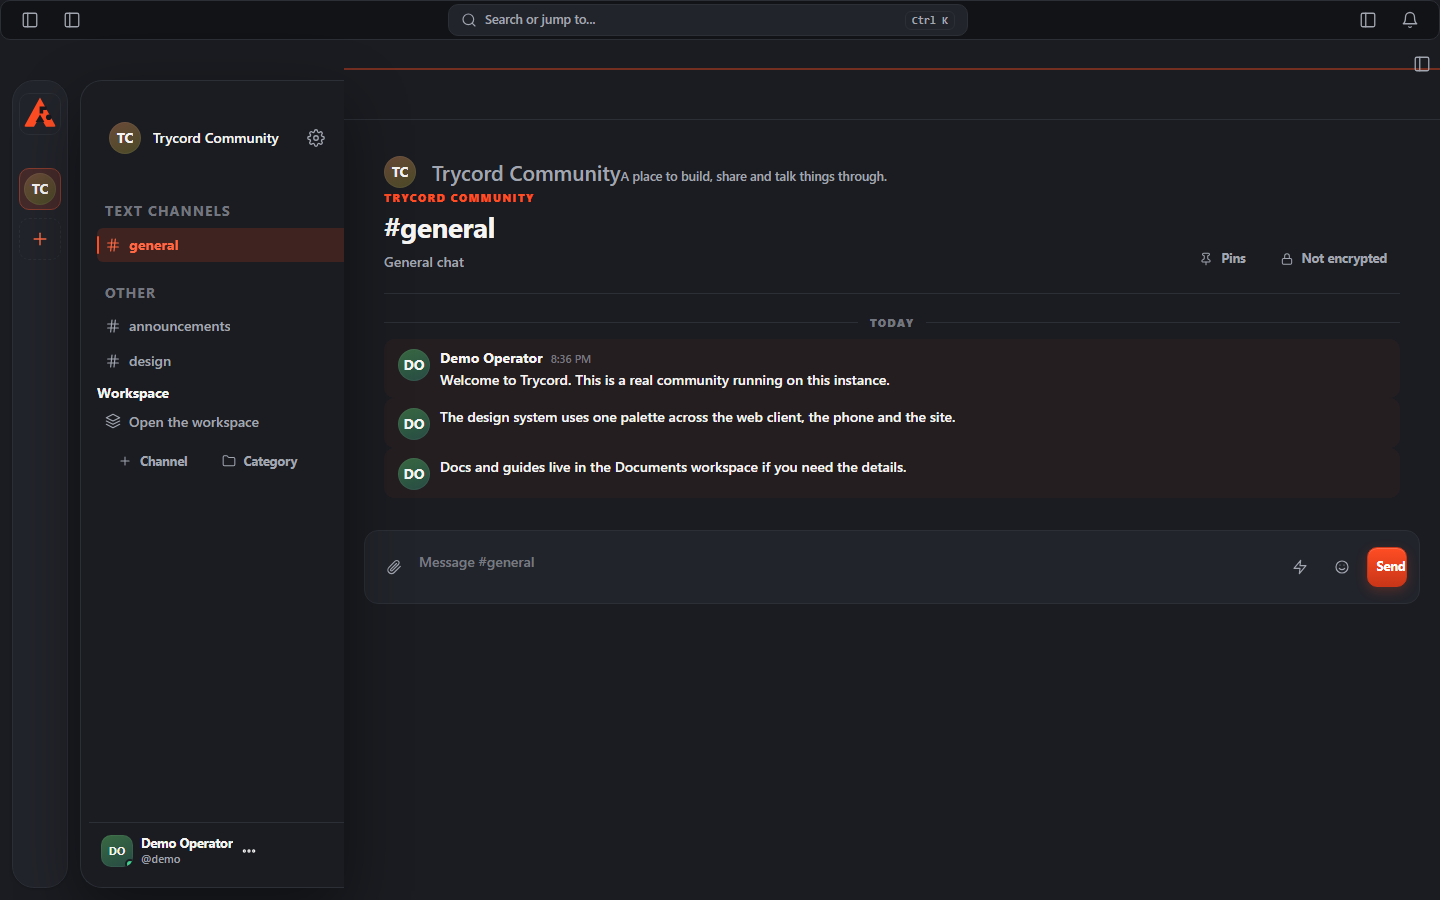
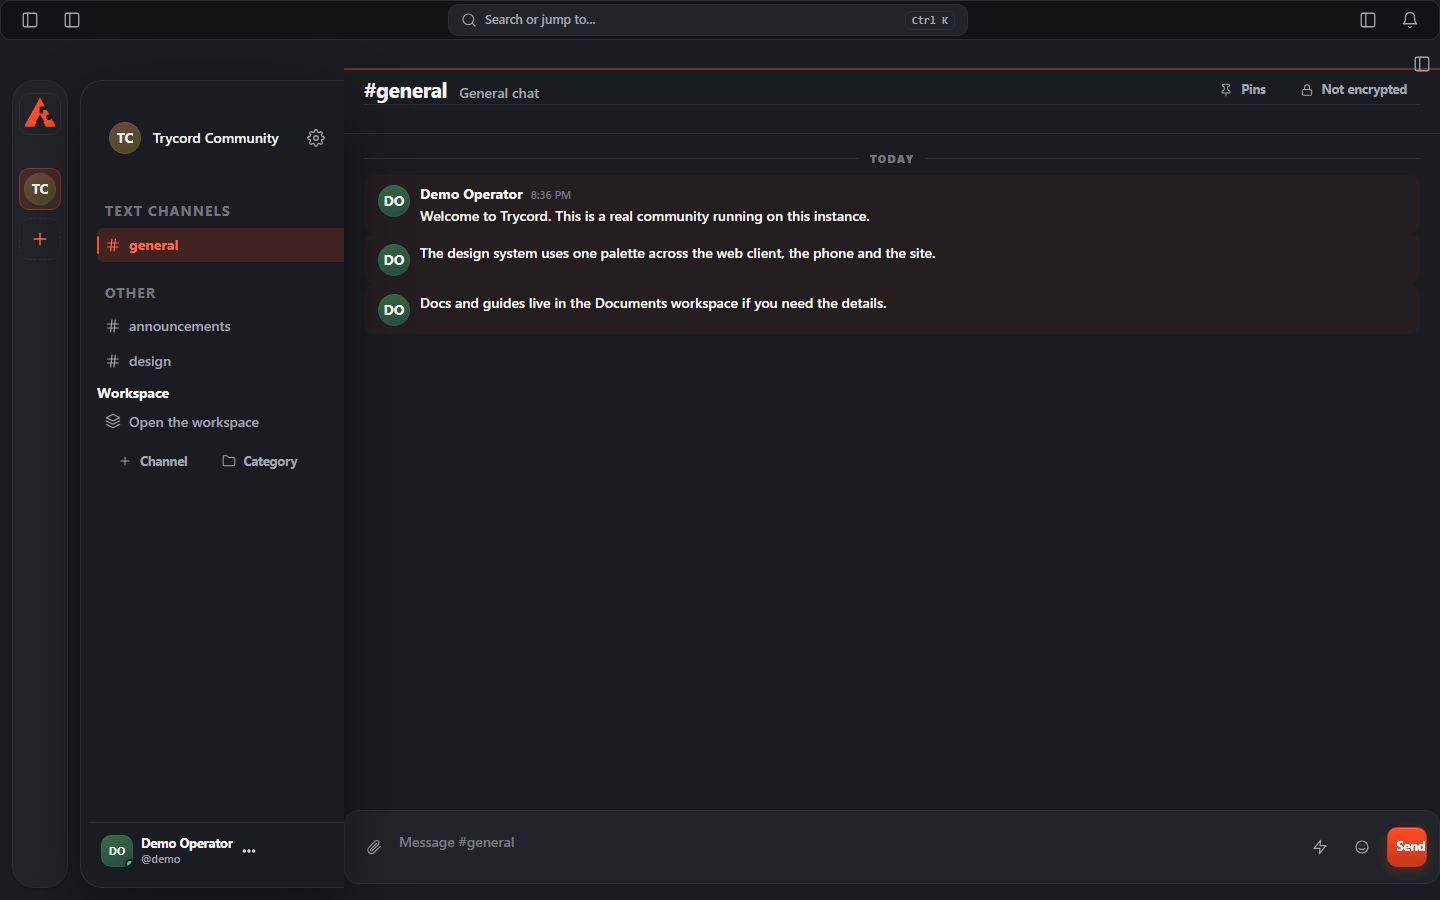
Update UI

diff --git a/frontend/css/app.css b/frontend/css/app.css
@@ -542,8 +542,13 @@ textarea.input, .field textarea { min-height: 88px; resize: vertical; line-heigh
   grid-template-columns: var(--rail-w) var(--context-w) minmax(0, 1fr);
   min-height: 0;
 }
-.ws[data-nav="collapsed"] { --context-w: 0px; }
-.ws[data-context="closed"] .context { display: none; }
+/* The place column follows the navigation toggle. The inspector is a floating
+   layer over the stage and must never change these columns. */
+.ws[data-nav="hidden"] { --context-w: 0px; }
+.ws[data-nav="hidden"] .shell-body {
+  grid-template-columns: var(--rail-w) minmax(0, 1fr);
+}
+.ws[data-nav="hidden"] .context { display: none; }
 
 /* --- command strip ---------------------------------------------------------- */
 
@@ -615,6 +620,8 @@ textarea.input, .field textarea { min-height: 88px; resize: vertical; line-heigh
   position: relative;
 }
 .context-head { padding: var(--tc-space-4) var(--tc-space-3) var(--tc-space-2); }
+.context-brand { display: flex; align-items: center; }
+.context-brand img { width: 44px; height: 44px; object-fit: contain; }
 .context-scroll { overflow-y: auto; padding: 0 var(--tc-space-2) var(--tc-space-4); scrollbar-width: thin; }
 .context-foot { padding: var(--tc-space-2); border-top: 1px solid var(--line); }
 .context-identity { display: flex; align-items: center; gap: var(--tc-space-3); padding: var(--tc-space-2); }
@@ -652,9 +659,16 @@ textarea.input, .field textarea { min-height: 88px; resize: vertical; line-heigh
 .stage-head { min-height: 52px; border-bottom: 1px solid var(--line); padding: var(--tc-space-2) var(--tc-space-5);
   display: flex; align-items: center; overflow-x: auto; scrollbar-width: none; }
 .stage-head-inner { display: flex; align-items: center; gap: var(--tc-space-3); width: 100%; }
+.stage-head .pagehead { width: 100%; padding-bottom: 0; align-items: center; gap: var(--tc-space-4); }
+.stage-head .pagehead-main { display: flex; align-items: baseline; flex-wrap: wrap; gap: var(--tc-space-3); }
+.stage-head .pagehead-title { font-size: var(--fs-xl); margin-top: 0; }
+.stage-head .pagehead-lede { margin-top: 0; }
+.stage-head .pagehead-actions { margin-left: auto; }
 .stage-body { overflow-y: auto; padding: var(--tc-space-5); scrollbar-width: thin; }
+.stage-body:has(.convo-host) { padding: 0 0 var(--tc-space-4); }
 .composer-slot { padding: 0 var(--tc-space-5) var(--tc-space-4); }
 .convo, .convo-page { height: 100%; min-height: 0; }
+.convo-page { display: grid; grid-template-rows: minmax(0, 1fr) auto auto; }
 .convo-host { height: 100%; display: grid; grid-template-rows: minmax(0, 1fr) auto; }
 .convo-scroll { overflow-y: auto; min-height: 0; padding: var(--tc-space-4) var(--tc-space-5); }
 .convo-newchip { display: inline-flex; align-items: center; gap: var(--tc-space-2);
@@ -725,7 +739,7 @@ textarea.input, .field textarea { min-height: 88px; resize: vertical; line-heigh
   .shell-body { grid-template-columns: 56px minmax(0, 1fr); }
   .ws .context { position: fixed; top: 52px; left: 56px; bottom: 0; z-index: 22; width: min(320px, 86vw);
     box-shadow: var(--shadow-3); display: none; }
-  .ws[data-context="open"] .context { display: grid; }
+  .ws[data-nav="overlay"] .context { display: grid; }
   .ws .inspector { width: min(420px, 88vw); }
   .stage-body { padding: var(--tc-space-4) var(--tc-space-3); }
   .cmdbar-omni { max-width: 240px; }
@@ -850,13 +864,13 @@ textarea.input, .field textarea { min-height: 88px; resize: vertical; line-heigh
 .conversation-empty, .conversation-system, .friendtile-tools, .placecard-go { color: var(--ink-2); font-size: var(--fs-sm); }
 .conversation-empty-subtext { color: var(--ink-3); }
 .conversation-browser { display: grid; gap: var(--tc-space-2); }
-.friendtile-main, .placecard-main { min-width: 0; flex: 1; }
+.friendtile-main, .placecard-main { display: grid; gap: 2px; min-width: 0; flex: 1; }
 .placecard--federated { border: 1px dashed var(--line); }
 .placelist, .peoplegrid, .requestlist { display: grid; gap: var(--tc-space-2); }
-.quickcard { padding: var(--tc-space-4); display: grid; gap: var(--tc-space-2); }
-.quickcard-glyph { color: var(--brand); }
+.quickcard { padding: var(--tc-space-3) var(--tc-space-4); display: flex; align-items: center; gap: var(--tc-space-3); }
+.quickcard-glyph { color: var(--brand); flex: none; }
 .quickcard-label { font-weight: 750; }
-.quickcard-go { color: var(--brand-hover); font-size: var(--fs-sm); }
+.quickcard-go { color: var(--brand-hover); font-size: var(--fs-sm); margin-left: auto; }
 
 /* --- communities and profile ------------------------------------------------ */
 
@@ -865,8 +879,9 @@ textarea.input, .field textarea { min-height: 88px; resize: vertical; line-heigh
 }
 .community-identity--link:hover { text-decoration: none; }
 .community-identity__mark, .settings-profile-face { flex: none; }
-.community-identity__name, .profile-name { font-size: var(--fs-xl); }
-.community-identity__about, .community-identity__words, .profile-status, .profile-presence-note { color: var(--ink-2); font-size: var(--fs-sm); }
+.community-identity__words { display: grid; gap: 2px; min-width: 0; color: var(--ink-2); font-size: var(--fs-sm); }
+.community-identity__name, .profile-name { font-size: var(--fs-xl); color: var(--ink); }
+.community-identity__about, .profile-status, .profile-presence-note { color: var(--ink-2); font-size: var(--fs-sm); }
 .profile-nameblock { display: grid; }
 .profile-presence, .profile-presence-line { display: flex; align-items: center; gap: 6px; }
 .profile-roles { display: flex; flex-wrap: wrap; gap: 4px; }

diff --git a/frontend/css/shell.css b/frontend/css/shell.css
@@ -14,8 +14,13 @@
   grid-template-columns: var(--rail-w) var(--context-w) minmax(0, 1fr);
   min-height: 0;
 }
-.ws[data-nav="collapsed"] { --context-w: 0px; }
-.ws[data-context="closed"] .context { display: none; }
+/* The place column follows the navigation toggle. The inspector is a floating
+   layer over the stage and must never change these columns. */
+.ws[data-nav="hidden"] { --context-w: 0px; }
+.ws[data-nav="hidden"] .shell-body {
+  grid-template-columns: var(--rail-w) minmax(0, 1fr);
+}
+.ws[data-nav="hidden"] .context { display: none; }
 
 /* --- command strip ---------------------------------------------------------- */
 
@@ -87,6 +92,8 @@
   position: relative;
 }
 .context-head { padding: var(--tc-space-4) var(--tc-space-3) var(--tc-space-2); }
+.context-brand { display: flex; align-items: center; }
+.context-brand img { width: 44px; height: 44px; object-fit: contain; }
 .context-scroll { overflow-y: auto; padding: 0 var(--tc-space-2) var(--tc-space-4); scrollbar-width: thin; }
 .context-foot { padding: var(--tc-space-2); border-top: 1px solid var(--line); }
 .context-identity { display: flex; align-items: center; gap: var(--tc-space-3); padding: var(--tc-space-2); }
@@ -124,9 +131,16 @@
 .stage-head { min-height: 52px; border-bottom: 1px solid var(--line); padding: var(--tc-space-2) var(--tc-space-5);
   display: flex; align-items: center; overflow-x: auto; scrollbar-width: none; }
 .stage-head-inner { display: flex; align-items: center; gap: var(--tc-space-3); width: 100%; }
+.stage-head .pagehead { width: 100%; padding-bottom: 0; align-items: center; gap: var(--tc-space-4); }
+.stage-head .pagehead-main { display: flex; align-items: baseline; flex-wrap: wrap; gap: var(--tc-space-3); }
+.stage-head .pagehead-title { font-size: var(--fs-xl); margin-top: 0; }
+.stage-head .pagehead-lede { margin-top: 0; }
+.stage-head .pagehead-actions { margin-left: auto; }
 .stage-body { overflow-y: auto; padding: var(--tc-space-5); scrollbar-width: thin; }
+.stage-body:has(.convo-host) { padding: 0 0 var(--tc-space-4); }
 .composer-slot { padding: 0 var(--tc-space-5) var(--tc-space-4); }
 .convo, .convo-page { height: 100%; min-height: 0; }
+.convo-page { display: grid; grid-template-rows: minmax(0, 1fr) auto auto; }
 .convo-host { height: 100%; display: grid; grid-template-rows: minmax(0, 1fr) auto; }
 .convo-scroll { overflow-y: auto; min-height: 0; padding: var(--tc-space-4) var(--tc-space-5); }
 .convo-newchip { display: inline-flex; align-items: center; gap: var(--tc-space-2);
@@ -197,7 +211,7 @@
   .shell-body { grid-template-columns: 56px minmax(0, 1fr); }
   .ws .context { position: fixed; top: 52px; left: 56px; bottom: 0; z-index: 22; width: min(320px, 86vw);
     box-shadow: var(--shadow-3); display: none; }
-  .ws[data-context="open"] .context { display: grid; }
+  .ws[data-nav="overlay"] .context { display: grid; }
   .ws .inspector { width: min(420px, 88vw); }
   .stage-body { padding: var(--tc-space-4) var(--tc-space-3); }
   .cmdbar-omni { max-width: 240px; }

diff --git a/frontend/css/features.css b/frontend/css/features.css
@@ -101,13 +101,13 @@
 .conversation-empty, .conversation-system, .friendtile-tools, .placecard-go { color: var(--ink-2); font-size: var(--fs-sm); }
 .conversation-empty-subtext { color: var(--ink-3); }
 .conversation-browser { display: grid; gap: var(--tc-space-2); }
-.friendtile-main, .placecard-main { min-width: 0; flex: 1; }
+.friendtile-main, .placecard-main { display: grid; gap: 2px; min-width: 0; flex: 1; }
 .placecard--federated { border: 1px dashed var(--line); }
 .placelist, .peoplegrid, .requestlist { display: grid; gap: var(--tc-space-2); }
-.quickcard { padding: var(--tc-space-4); display: grid; gap: var(--tc-space-2); }
-.quickcard-glyph { color: var(--brand); }
+.quickcard { padding: var(--tc-space-3) var(--tc-space-4); display: flex; align-items: center; gap: var(--tc-space-3); }
+.quickcard-glyph { color: var(--brand); flex: none; }
 .quickcard-label { font-weight: 750; }
-.quickcard-go { color: var(--brand-hover); font-size: var(--fs-sm); }
+.quickcard-go { color: var(--brand-hover); font-size: var(--fs-sm); margin-left: auto; }
 
 /* --- communities and profile ------------------------------------------------ */
 
@@ -116,8 +116,9 @@
 }
 .community-identity--link:hover { text-decoration: none; }
 .community-identity__mark, .settings-profile-face { flex: none; }
-.community-identity__name, .profile-name { font-size: var(--fs-xl); }
-.community-identity__about, .community-identity__words, .profile-status, .profile-presence-note { color: var(--ink-2); font-size: var(--fs-sm); }
+.community-identity__words { display: grid; gap: 2px; min-width: 0; color: var(--ink-2); font-size: var(--fs-sm); }
+.community-identity__name, .profile-name { font-size: var(--fs-xl); color: var(--ink); }
+.community-identity__about, .profile-status, .profile-presence-note { color: var(--ink-2); font-size: var(--fs-sm); }
 .profile-nameblock { display: grid; }
 .profile-presence, .profile-presence-line { display: flex; align-items: center; gap: 6px; }
 .profile-roles { display: flex; flex-wrap: wrap; gap: 4px; }

diff --git a/frontend/js/features/community.js b/frontend/js/features/community.js
@@ -27,7 +27,6 @@ import { communitySettingsSections } from './communitySettings.js';
 import { roleDot, roleColourField, memberRoleDot, roleChips } from '../../packages/roles.js';
 import { renderVoiceRoom } from '../voice/room.js';
 import { errorToast, toast, openDialog } from '../ui/overlays.js';
-import { communityIdentity } from '../ui/communityIdentity.js';
 
 function renderSettingsSection(ctx, section) {
   const table = communitySettingsSections();
@@ -76,8 +75,6 @@ export function renderChannelView(ctx) {
     return head({
       // Which community this is. The channel is where the conversation is, and
       // the community is the place it happens, so the place says its name.
-      identity: communityIdentity(server),
-      kicker: server.name,
       title: channelTitlePrefix + (channel ? channel.name : 'channel'),
       lede: channel && channel.topic
         ? channel.topic
@@ -241,11 +238,9 @@ export function renderChannelView(ctx) {
   const pinsHost = el('div', { class: 'rowlist' });
 
   const pinsPage = el('div', { class: 'convo-page' },
-    el('div', { class: 'convo-scroll fold fold--tight' },
-      makeHead(),
-      pinsHost));
+    el('div', { class: 'convo-scroll fold fold--tight' }, pinsHost));
   const page = el('div', { class: 'convo-page' },
-    el('div', { class: 'convo-scroll' }, makeHead(), surface.node),
+    el('div', { class: 'convo-scroll' }, surface.node),
     surface.typing,
     surface.composer.node);
   const host = el('div', { class: 'convo-host' }, page);
@@ -340,6 +335,7 @@ export function renderChannelView(ctx) {
 
   return {
     node: isPins ? pinsPage : host,
+    head: makeHead(),
     inspector,
     onMount: open,
     cleanup() {

diff --git a/frontend/mobile/js/views/convo.js b/frontend/mobile/js/views/convo.js
@@ -32,8 +32,12 @@ function normalizeMessage(raw) {
     createdAt: raw.createdAt || raw.created_at,
     editedAt: raw.editedAt || raw.edited_at || null,
     authorId: group ? raw.authorId : (raw.authorId || raw.author_id),
-    authorName: group ? raw.authorName : (raw.authorName || raw.username || raw.user),
-    authorDisplay: group ? (raw.authorDisplay || raw.authorName) : (raw.authorDisplay || raw.display_name || raw.user),
+    authorName: group
+      ? (raw.authorName || raw.author_name)
+      : (raw.authorName || raw.author_name || raw.username || raw.user),
+    authorDisplay: group
+      ? (raw.authorDisplay || raw.author_display || raw.authorName || raw.author_name)
+      : (raw.authorDisplay || raw.author_display || raw.displayName || raw.display_name || raw.user),
     authorAvatar: raw.authorAvatar || raw.author_avatar || null,
     authorIsBot: !!(raw.authorIsBot || raw.author_is_bot),
     replyCount: raw.replyCount || raw.reply_count || 0,
@@ -777,7 +781,7 @@ export function renderConvo(ctx) {
   const isDm = ctx.page.id === 'dms.conversation';
   const scope = isDm
     ? { kind: 'dm', id: ctx.conversationId || ctx.params.id }
-    : { kind: 'channel', id: (channel || {}).id || ctx.params.channel, serverId: ctx.serverId, placeholder: channel ? 'Say something in ' + channel.name : 'Say something' };
+    : { kind: 'channel', id: (channel || {}).id || ctx.params.channel, serverId: ctx.serverId, placeholder: 'Say something' };
 
   if (!isDm && channel && (channel.type === 'voice' || channel.type === 'stage')) {
     return voiceRoom(channel, ctx.serverId);

diff --git a/frontend/mobile/css/app.css b/frontend/mobile/css/app.css
@@ -318,9 +318,9 @@ button.m-row:hover, .m-row[role="menuitem"]:hover { background: var(--m-card-2);
 .m-embeds { display: grid; gap: 6px; margin-top: 6px; }
 
 .m-send, .m-send-slot { display: flex; align-items: flex-end; gap: 8px; padding: var(--tc-space-2) var(--m-pad)
-  calc(var(--tc-space-2) + env(safe-area-inset-bottom, 0px)); background: var(--m-deep); border-top: 1px solid var(--m-line); }
-.m-send__field { flex: 1; min-width: 0; display: grid; gap: 6px; }
-.m-send__input { width: 100%; min-height: 42px; max-height: 132px; padding: 10px 12px;
+  calc(var(--m-bar-h) + var(--tc-space-2) + env(safe-area-inset-bottom, 0px)); background: var(--m-deep); border-top: 1px solid var(--m-line); }
+.m-send__field { flex: 1; min-width: 0; display: flex; align-items: flex-end; gap: 8px; }
+.m-send__input { flex: 1; width: 100%; min-height: 42px; max-height: 132px; padding: 10px 12px;
   background: var(--m-card); border: 1px solid var(--m-line); border-radius: var(--tc-radius-lg);
   resize: none; outline: none; line-height: 1.4; }
 .m-send__input:focus { border-color: var(--m-brand-line); }

diff --git a/frontend/mobile/css/mobile.css b/frontend/mobile/css/mobile.css
@@ -182,9 +182,9 @@ button.m-row:hover, .m-row[role="menuitem"]:hover { background: var(--m-card-2);
 .m-embeds { display: grid; gap: 6px; margin-top: 6px; }
 
 .m-send, .m-send-slot { display: flex; align-items: flex-end; gap: 8px; padding: var(--tc-space-2) var(--m-pad)
-  calc(var(--tc-space-2) + env(safe-area-inset-bottom, 0px)); background: var(--m-deep); border-top: 1px solid var(--m-line); }
-.m-send__field { flex: 1; min-width: 0; display: grid; gap: 6px; }
-.m-send__input { width: 100%; min-height: 42px; max-height: 132px; padding: 10px 12px;
+  calc(var(--m-bar-h) + var(--tc-space-2) + env(safe-area-inset-bottom, 0px)); background: var(--m-deep); border-top: 1px solid var(--m-line); }
+.m-send__field { flex: 1; min-width: 0; display: flex; align-items: flex-end; gap: 8px; }
+.m-send__input { flex: 1; width: 100%; min-height: 42px; max-height: 132px; padding: 10px 12px;
   background: var(--m-card); border: 1px solid var(--m-line); border-radius: var(--tc-radius-lg);
   resize: none; outline: none; line-height: 1.4; }
 .m-send__input:focus { border-color: var(--m-brand-line); }
